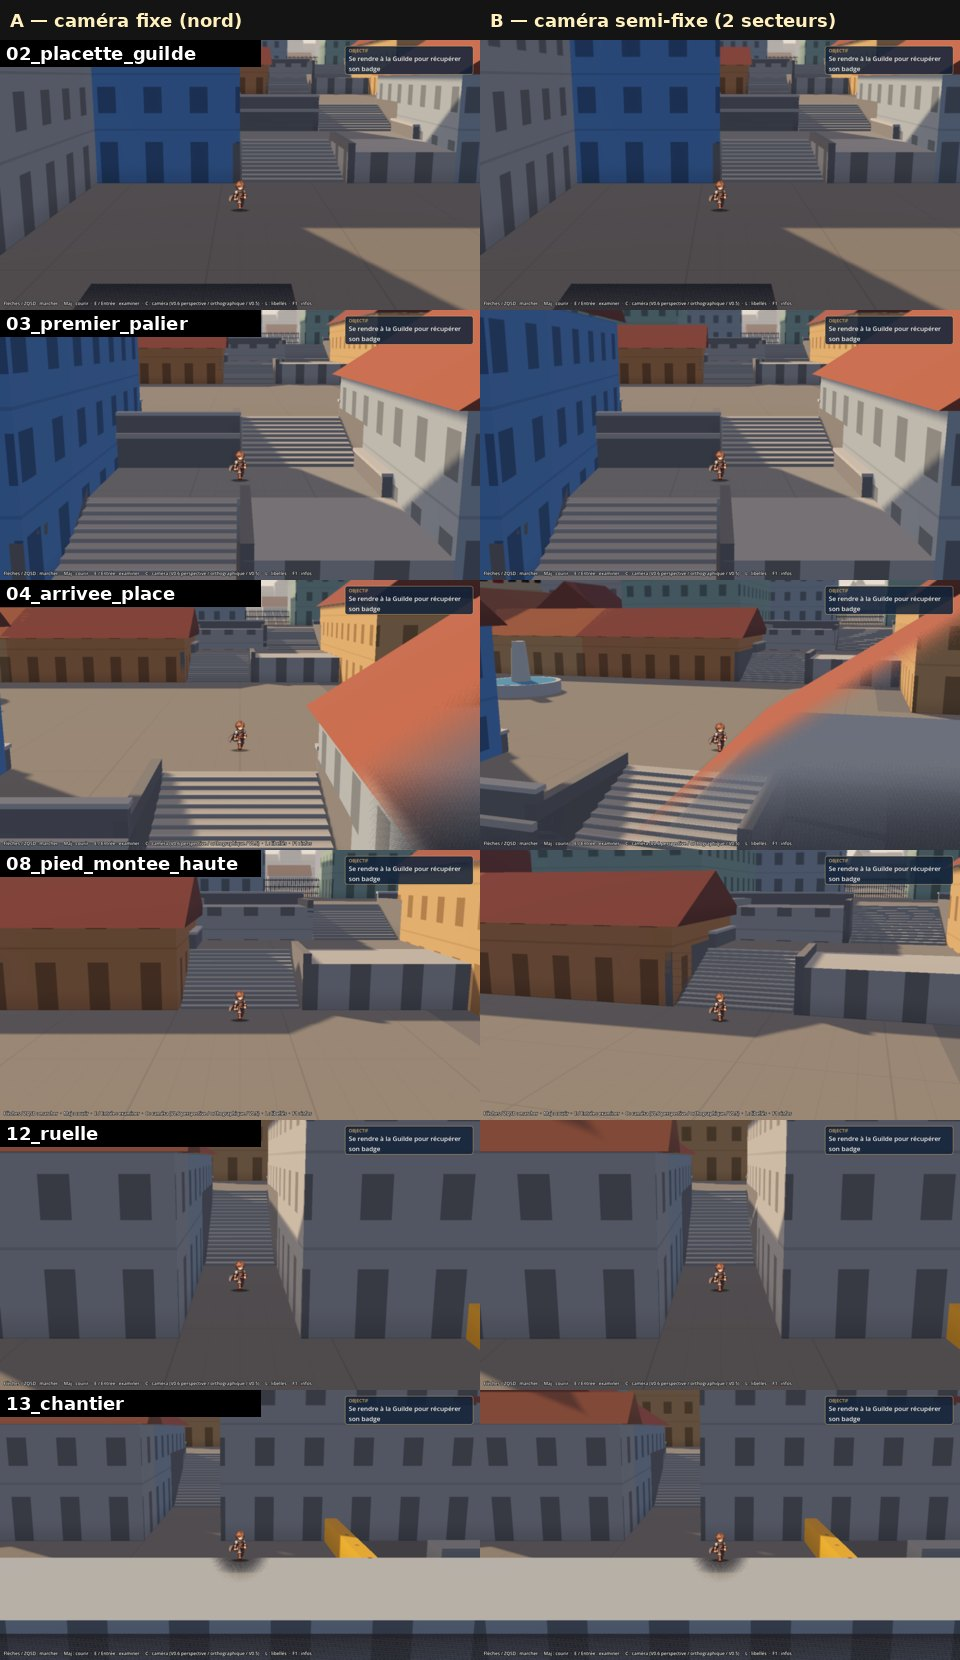
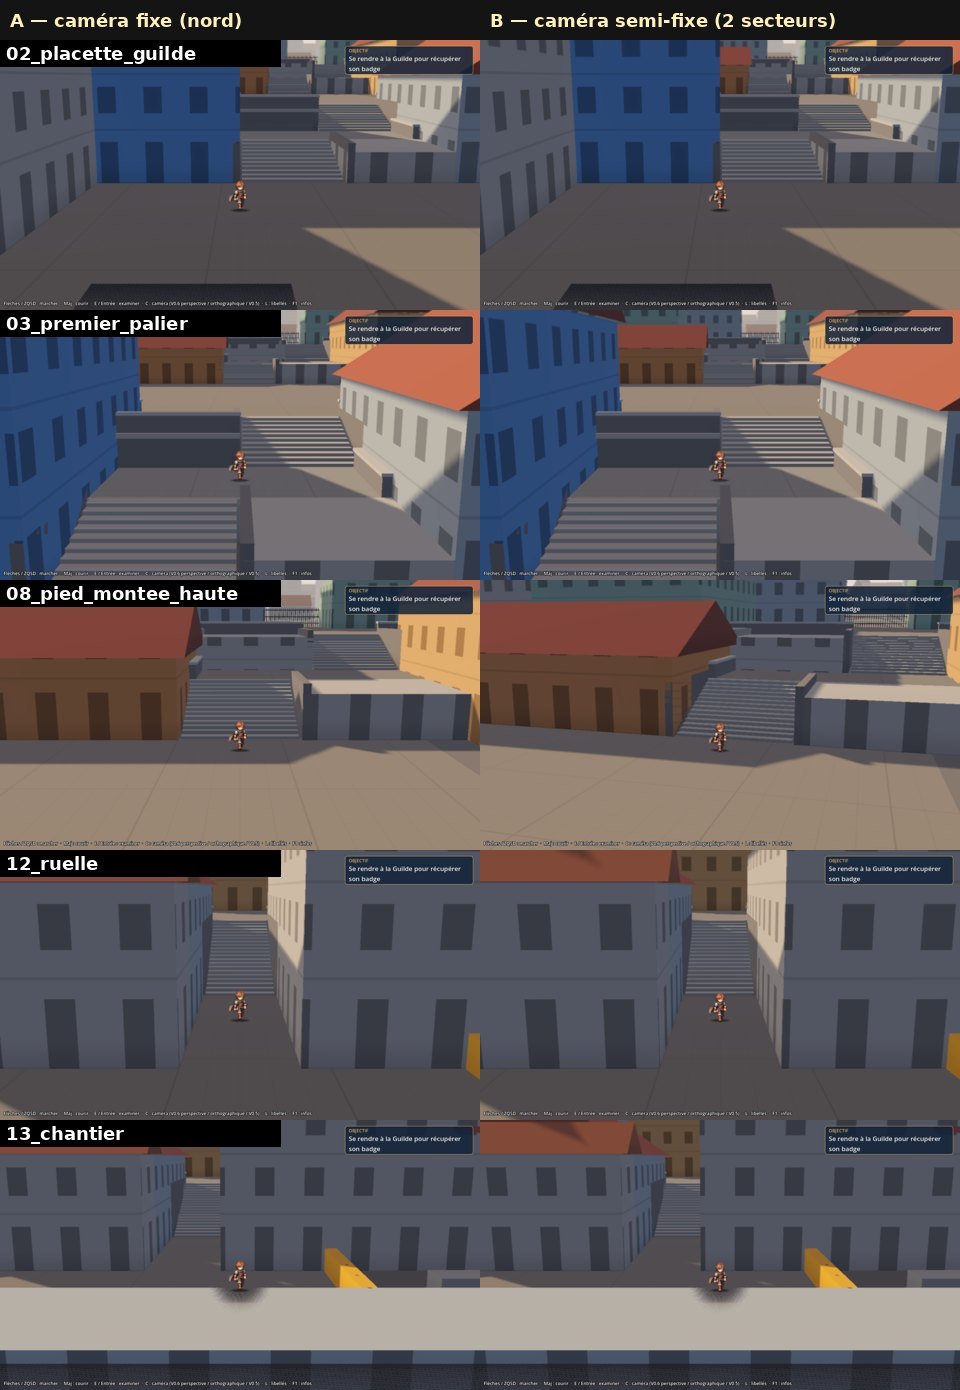
P7.4 : rapport, README, consignes, planches A/B finales
Claude-Session: https://claude.ai/code/session_012E4v6xMR4nFAF4taaG5rKZ

diff --git a/docs/P7_4_VILLE_V07A.md b/docs/P7_4_VILLE_V07A.md
@@ -1,0 +1,207 @@
+# P7.4 — Ville V0.7-A : micro-blockout semi-circulaire, caméra fixe (A) contre caméra semi-fixe (B)
+
+Branche **`p7-4-ville-v07a`**, issue de **`p7-3-ville-v06`** (commit de base `a0b4748`).
+Elle contient le nettoyage P7.2 et le correctif des vestiaires P6.4.4.
+
+**EXPÉRIENCE DE CONCEPTION, NON VALIDÉE.** Le quartier entier n'est pas reconstruit : seul l'itinéraire représentatif du
+brief l'est.
+
+**Ouvrir** : F6 sur `scenes/p7/ville_v07a.tscn`.
+
+| Touche ou option | Effet |
+|---|---|
+| **V** ou `-- --camera_ville=A` / `B` | Caméra A (fixe) ou B (semi-fixe) |
+| **L** | Libellés |
+| `-- --etat=tutorial_completed` | Départ dans le Colisée ; sa sortie mène au parvis du Colisée de la V0.7-A |
+
+## 1. Recommandation
+
+**La caméra B est recommandée, sous conditions. A reste la référence de repli.**
+
+La géométrie, les trajets (moins de 1 s d'écart) et la séquence sont strictement les mêmes. B apporte une chose que A ne
+peut pas donner avec ce tracé : depuis l'approche de la grande place, **le Colisée entre dans le cadre** (arcades, tambour),
+alors qu'en A il reste hors champ jusqu'à l'embranchement. Le critère « Colisée identifiable depuis la place » n'est
+atteint qu'en B.
+
+Mesures (outil de continuité, parcours vidéo complet) :
+* **aucun bond** de caméra ;
+* **aucune inversion de sens** de rotation ;
+* aucun blocage ;
+* Aren reste à sa place à l'écran pendant les rotations (déplacement au plus 4 px par image, comme en A).
+
+Ce que B coûte :
+* **8 rotations** sur la séquence (environ 25 s cumulées sur 246 s), à 14° par seconde au plus. C'est doux, mais présent
+  à chaque passage d'une limite de secteur.
+* Les volumes proches de la caméra passent plus souvent dans la zone estompée en trame : façade bleue de la Guilde à
+  l'arrivée sur la place, toit de l'immeuble à l'est de la volée B.
+* Le gain au château est faible : la terrasse se lit déjà bien en A. On peut retirer le second secteur sans perdre
+  l'essentiel.
+
+**Proposition** : garder **un seul secteur B**, celui de la « révélation du Colisée », et revenir à A partout ailleurs. Si
+vous jugez la rotation gênante dans la vidéo, A reste valable : il faut alors accepter que le Colisée ne se découvre qu'à
+l'embranchement.
+
+## 2. Ce qui a été construit
+
+Plan : `docs/media/p7_4/plan_v07a.png`, tiré des données par `tools/p7/plan_v07a.py`.
+
+Il distingue les rues praticables (teinte par niveau), les volées, le bâti à collision, les volumes purement visuels, les
+accès bloqués et les zones de la caméra B.
+
+| Étape du brief | Réalisation |
+|---|---|
+| 1. Quartier bas, porte sud, respiration | Porte de 6 m ; **placette des Voyageurs** de 24 × 18 m ; Guilde au nord de la placette, façade face caméra |
+| 2. Montée courbe / décalée, plus étroite | **Deux volées de 6 m de large**, en baïonnette (vers l'est), autour d'un **palier** à 1,75 m. Un **belvédère** domine le palier. V0.6 : une volée de 12 m |
+| 3. Portion de grande place commerçante | Place de 42 × 27 m à 3,5 m (fontaine), bras vers l'est. Fronts denses : forge-armurerie face caméra, échoppes, commerce à l'est. Pas de place du marché séparée |
+| 4. Embranchement ouest, vue du Colisée | Rue du Colisée (8 m), puis **parvis** au pied du tambour. Le Colisée est au nord-ouest de la place, **entrée publique au sud, face caméra** : porche, fronton, bannière de la Guilde, deux registres d'arcades, attique, bannières rouges. Volume fermé : **l'arène n'est jamais visible**. L'architecture intérieure du Colisée n'est pas touchée (instance séparée, raccord testé) |
+| 5. Montée vers la terrasse haute | Deux volées de 6 m en baïonnette et un palier à 5,75 m, puis la **terrasse haute** (8 m) : avenue et porte du château fermée, château et ville haute au loin |
+| 6. Ruelle secondaire | **Ruelle des Tonneliers**, 4 m : du bras est de la place, un escalier étroit descend à la rue du chantier, qui ramène à la placette. Boucle courte : place → ruelle → placette → volées |
+| 7. Départs de rues futures | **Rue du chantier** (est de la placette), fermée par une barrière, un échafaudage et des matériaux. **Rue haute** (est de la terrasse), fermée par une grille. Au-delà, volumes de décor non praticables |
+
+Tracé : la porte sud, les deux montées en baïonnette, la place puis l'embranchement vers le Colisée, et enfin la montée
+vers le nord-est dessinent un arc autour de la place. Le socle n'accepte que des sols rectangulaires et des escaliers qui
+montent vers le nord : la courbure vient des décalages successifs, pas de rues réellement courbes.
+
+Hauteurs d'essai : 0 / 1,75 / 3,5 / 5,75 / 8 m. Elles restent réglables dans le générateur.
+
+Les règles de composition de la V0.6 sont conservées :
+* les bâtiments-repères ont leur façade au sud ;
+* entre la caméra et les lieux d'arrêt, il n'y a que des volumes bas (murets de 1,2 m, portique de 2,5 m, toits des
+  volumes bas plafonnés à 70 % de leurs murs) ;
+* les volumes à moins de 12 m de la caméra s'estompent.
+
+## 3. Le protocole de caméra
+
+| Paramètre | A | B |
+|---|---|---|
+| Projection, champ, plongée | Perspective, 30°, 11° (V0.6) | Identiques |
+| Distance | Une seule (×3, molette sans effet) | Identique |
+| Suivi en altitude | Lissé (0,45 s) | Identique |
+| Orientation | Nord, partout | Nord, sauf dans 2 secteurs des données |
+
+Secteurs de B :
+* **« révélation du Colisée »** : grande place, rue et parvis du Colisée, rotation de −16° ;
+* **« montée du château »** : palier 2 et terrasse haute, rotation de +12°.
+
+Fonctionnement de B :
+* **Hystérésis** : on entre dans un secteur par son rectangle, on n'en sort qu'à 2 m au-delà. Aller-retour à la limite :
+  0 inversion mesurée.
+* **Rotation** : ressort à amortissement critique (0,55 s), vitesse bornée à 14° par seconde. Le cadrage est recalé à
+  chaque image : Aren ne bouge pas à l'écran, la caméra tourne autour de lui.
+* **Jamais de suivi du cap du personnage.** La rotation dépend seulement du secteur.
+* **Commandes** : tant qu'une direction est tenue, elle garde l'azimut d'avant la rotation (la marche ne dérive pas) ;
+  l'azimut est resynchronisé au relâchement. Aucune inversion n'est possible : la rotation fait au plus 16°.
+* **Repli sur A** : touche V, ou B sans secteurs dans les données.
+
+Le système de caméra du Colisée, de la forêt et des autres scènes n'est pas modifié. Le verrou des commandes
+(`World25.yaw_commande_actif`) est inactif hors de la ville.
+
+## 4. Mesures et tests
+
+### Temps de trajet (marche 2,2 m/s, mêmes résultats en A et B à moins de 1 s près)
+
+| Trajet | A | B |
+|---|---|---|
+| Porte sud → premier palier | 15,4 s | 15,4 s |
+| Premier palier → grande place | 12,5 s | 12,2 s |
+| Porte sud → grande place | 27,9 s | 27,6 s |
+| Grande place → porche du Colisée | 28,9 s | 29,9 s |
+| Grande place → porte du château | 34,9 s | 35,2 s |
+| Place → ruelle → chantier → placette | 37,1 s | 36,9 s |
+
+Pour comparaison, en V0.6 : porte sud → fontaine en 34,9 s (avec le détour par la guilde). La distance porte → première
+montée est d'environ 22 m (10 s), ce qui laisse une respiration sans allonger artificiellement le parcours.
+
+### Caméra : outil `tools/p6/camera_continuite_p6.gd`, séquence vidéo complète
+
+L'outil a reçu deux options : `--scene=` et une mesure de la rotation.
+
+| | A | B |
+|---|---|---|
+| Durée de la séquence | 243 s | 246 s |
+| Bonds | 0 | 0 |
+| Distance caméra–Aren | 22,39 m (constante) | 22,39 m (constante) |
+| Déplacement d'Aren à l'écran, au plus | 4,1 px/image | 4,0 px/image |
+| Rotations | 0 | 8 épisodes, 1 522 images, 14 °/s au plus, **0 inversion** |
+| Blocages | 0 | 0 |
+
+### Collisions : 18 sondes sur 18 en A comme en B
+
+Ont été vérifiés :
+* les façades de la guilde et de la forge ;
+* le front ouest de la placette et le socle du palier ;
+* les garde-corps : belvédère, place (vide de 3,5 m), palier 2 et terrasse (vide de 4,5 m) ;
+* la fontaine, le front nord de la rue du Colisée et le front sud du parvis ;
+* les portes du Colisée et du château, et la grille de la rue haute (fermées) ;
+* la barrière du chantier, le mur de la ruelle et la barrière de la route sud.
+
+### Non-régression
+
+Tout passe :
+* tests unitaires : 76 sur 76 ;
+* ouverture P6 de bout en bout et saut du tutoriel ;
+* `p6_sondes` : 10 sur 10 ;
+* F5 (forêt) et V11 ;
+* chargement de la V0.6 ;
+* raccord Colisée → V0.7-A ;
+* vestiaires P6.4.4 (`tools/p6/visibilite_vestiaires_p644.gd`) : depuis les vestiaires, **aucun groupe de maillages de
+  l'arène visible**.
+
+### Performances
+
+Voir le tableau en fin de document (relevé pendant les vidéos, rendu logiciel). Référence V0.6 : 821 appels de rendu.
+
+### Limites de l'environnement
+
+* **Rendu logiciel seulement** (lavapipe, sans GPU) : les images par seconde et le flou de distance sont à juger sur
+  votre machine ; seuls les appels de rendu et les primitives ont valeur de comparaison.
+* **Parcours joués par un pilote automatique** : le ressenti au clavier n'est pas mesurable ici, en particulier celui du
+  verrou des commandes pendant une rotation.
+
+## 5. Défauts et points ouverts
+
+1. **B estompe davantage les façades proches** : la caméra pivote autour d'Aren et passe au-dessus d'autres volumes, comme
+   la Guilde à l'arrivée sur la place.
+2. **Le Colisée vu de près**, depuis le parvis, se lit comme un grand mur courbe. Sa courbure se lit mieux en B ou depuis
+   la rue. Son sommet est coupé par le cadre (plongée de 11°).
+3. **Le château** reste une silhouette d'horizon, dans les deux modes (même limite qu'en V0.6).
+4. **Courbes approchées** par des rectangles décalés : une vraie rue courbe demanderait de faire évoluer le socle.
+5. **Le pilote automatique** suit maintenant les directions avec l'azimut des commandes dans les deux modes, pour que A et
+   B parcourent exactement les mêmes trajectoires. Pour un joueur, en A, cela ne change rien : l'azimut des commandes y
+   est toujours celui de la caméra.
+
+## 6. Traçabilité
+
+| Fichier | Modification |
+|---|---|
+| `tools/p7/build_ville_v07a.py` → `data/p7/ville_v07a.json` | Nouveau : générateur et données (secteurs de caméra compris) |
+| `scenes/p7/ville_v07a.gd`, `scenes/p7/ville_v07a.tscn` | Nouveau : affichage (masses, Colisée extérieur, chantier, château déplacé), scène F6 |
+| `tools/p7/plan_v07a.py` | Nouveau : plan simplifié |
+| `scenes/p6/colisee.gd` | Mode « ville v07a », caméra B (`_yaw_secteurs`, `_secteur_camera`), touche V, azimut rétabli en quittant la ville |
+| `src/explore25/world25.gd` | `yaw_commande_actif` / `yaw_commande`, `plan_to_input` (inactifs par défaut) |
+| `src/explore25/session25.gd` | Le pilote utilise `plan_to_input` quand l'azimut des commandes est actif |
+| `scenes/p7/ville_v06.gd` | `_toit(…, cap)` : toit plafonné, pour la V0.7-A seulement ; V0.6 inchangée |
+| `src/explore25/routes25.gd` | Parcours `p7_v07_vues`, `p7_v07_video`, `p7_v07_trajets`, `p7_v07_sondes`, `p7_v07_raccord` |
+| `tools/p6/camera_continuite_p6.gd` | Mesure de la rotation (épisodes, vitesse, inversions) |
+
+Aucun fichier supprimé ; aucune ressource P4 réintégrée ni retirée ; S6 à S9 non exécutés.
+
+### Dépendances résiduelles du Colisée envers `scenes/p4/avant_poste.gd` (relevé, sans refactorisation)
+
+`colisee.gd` hérite de ce script. Il en utilise :
+* des **fonctions de construction** : `_surf` (14 appels), `_tinted` (25), `_card` (9), `_faces` (31), `_light`, `_halo`,
+  `_env`, `_build_tilt`, `_build_ui`, `_make_actor` ;
+* des **méthodes redéfinies qui appellent la version de base** : `_ready`, `_load`, `_build`, `_decor_floor`,
+  `_apply_variante`, `apply_camera`, `_sync_sprite`, `_unhandled_input`, `_physics_process`, `_process`, `_switch`,
+  dialogues ;
+* des **tables** : `CAMS`, `CHARS`, `MATS` ;
+* un **shader** : `SURF_SH`, aussi utilisé par `habillage_p6.gd`.
+
+Les parties de ce script propres à l'avant-poste (eau, berges, arbres, maisons P4, garde, monstre) ne sont plus
+appelées. Elles pourront être retirées lors d'un futur refactoring, à décider.
+
+### Médias (`docs/media/p7_4/`)
+
+* `ville_v07a_camera_A.mp4` et `ville_v07a_camera_B.mp4` : même séquence, même résolution (1280 × 720, 30 i/s).
+* `ab_entree_place_colisee.jpg`, `ab_montee_chateau_retour.jpg`, `ab_autres_reperes.jpg` : captures A/B aux mêmes repères.
+* `plan_v07a.png` : plan simplifié.

diff --git a/README.md b/README.md
@@ -42,8 +42,8 @@ masque de collision avant / après.
 > **Version du moteur : Godot 4.7.2, et elle seule.** La ligne `config/features=PackedStringArray("4.5")` de
 > `project.godot` est un reliquat historique, laissé tel quel volontairement.
 
-1. Télécharger le projet (GitHub : choisir la branche **`p7-3-ville-v06`**, puis **Code → Download ZIP** ;
-   le dossier s'appelle `Val-Serra-Game-p7-3-ville-v06`) et le décompresser.
+1. Télécharger le projet (GitHub : choisir la branche **`p7-4-ville-v07a`**, puis **Code → Download ZIP** ;
+   le dossier s'appelle `Val-Serra-Game-p7-4-ville-v07a`) et le décompresser.
 2. Récupérer **Godot 4.7.2** (édition standard, pas « .NET ») : <https://godotengine.org/download/archive/4.7.2-stable/>.
 3. Godot → **Importer** → choisir `project.godot` → **Importer et modifier** (une minute environ la première fois).
 4. **F5** lance la **forêt V07B** (`ValSerra_P49_V07B_PREFLIGHT_GODOT/godot/P49_V07_Foret_Test.tscn`), avec les
@@ -142,6 +142,10 @@ masque de collision avant / après.
    à la ville (perspective, plongée 11°, champ 30°, distance unique ×3 : molette sans effet). **C** : V0.6 perspective /
    V0.6 orthographique / caméra V0.5 (comparaison) ; **L** : libellés. `-- --etat=tutorial_completed` : départ dans le
    Colisée, dont la sortie mène à la rue du Colisée de la V0.6. Rapport : `docs/P7_3_VILLE_V06.md`.
+   **Branche `p7-4-ville-v07a`** (EXPÉRIENCE, NON validée) : F5 inchangé ; **F6 sur `scenes/p7/ville_v07a.tscn`** = micro-blockout
+   V0.7-A semi-circulaire : porte sud, placette et guilde, montée en baïonnette, grande place, embranchement vers le parvis du
+   Colisée (vue extérieure), montée vers la terrasse haute et la porte du château, ruelle, rues futures fermées (chantier,
+   grille). **V** : caméra A (fixe, nord) / B (semi-fixe, 2 secteurs) ; **L** : libellés. Rapport : `docs/P7_4_VILLE_V07A.md`.
 
 ### Commandes — forêt V07B (F5)
 
@@ -180,6 +184,7 @@ masque de collision avant / après.
 
 | Scène | Contenu |
 |---|---|
+| `scenes/p7/ville_v07a.tscn` | **P7.4 — ville V0.7-A** : micro-blockout semi-circulaire, caméras A / B (touche V) |
 | `scenes/p7/ville_v06_montee.tscn` | **P7.3 — ville V0.6** : caméra HD-2D de la ville et montée sur trois niveaux (prototype) |
 | `scenes/p7/ville_v05_blockout.tscn` | P7.1 — blockout V0.1 du quartier central (référence fonctionnelle, comparaison) |
 | `scenes/p6/colisee.tscn` | **P6 — ouverture du jeu** : Colisée de Val'Serra, tutoriel, sortie vers la ville |

diff --git a/CLAUDE.md b/CLAUDE.md
@@ -205,6 +205,11 @@
   altitude lissée (`Session25.cam_lissage_h`, 0 ailleurs) ; Colisée, forêt et autres zones gardent leur caméra.
   Règle de composition : bâtiments importants façade au sud (face caméra), volumes bas entre la caméra et les lieux
   d'arrêt. Ne pas reconstruire le quartier entier avant validation de la vidéo par le créateur.
+- **P7.4 (branche `p7-4-ville-v07a`, `docs/P7_4_VILLE_V07A.md`)** : V0.7-A, EXPÉRIENCE NON VALIDÉE (brief P7.4) : micro-blockout
+  semi-circulaire (`tools/p7/build_ville_v07a.py` -> `data/p7/ville_v07a.json`, `scenes/p7/ville_v07a.gd`, F6 `scenes/p7/ville_v07a.tscn`,
+  plan `tools/p7/plan_v07a.py`). Caméra A = caméra V0.6 ; B = même caméra, orientation propre à 2 secteurs des données
+  (`zones_camera`, hystérésis, rotation amortie, commandes verrouillées pendant la rotation : `World25.yaw_commande_actif`,
+  inactif hors de la ville). Ne pas reconstruire le quartier avant la décision de la direction sur l'agencement et la caméra.
 - Après toute modification : `godot --headless --path . --script res://tests/run_tests.gd`,
   `--script res://tests/e2e_p6_ouverture.gd -- --tuto-rapide`, `--script res://tests/e2e_p6_saut_tutoriel.gd`, puis le parcours
   `--route=p6_sondes` du Colisée (voir README ; l'avant-poste et ses parcours `p4` / `p4_sondes` sont retirés depuis P7.2).
